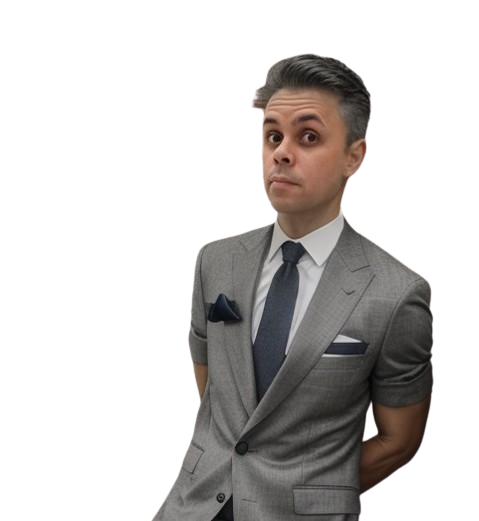
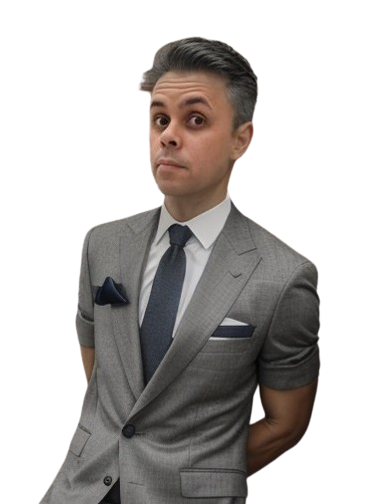
Ajustando responsividade e img

diff --git a/css/style.css b/css/style.css
@@ -101,6 +101,8 @@ section {
    position: relative;
    height: 95vh;
    width: 100%;
+   padding-bottom: 2rem;
+   margin-bottom: 6rem;
    display: grid;
    grid-template-columns: repeat(2, 1fr);
    align-items: center;
@@ -179,10 +181,12 @@ section {
     text-shadow:  3px 3px 20px #ffff00, -2px 1px 30px #ffff00;
 }
 .home-img img {
-    width: 95%;
-    height: auto;
-    padding-top: 1rem;
-    border-radius: 50%;
+    width: 91%;
+    height: 95%;
+    padding-top: -4rem;
+    padding-bottom: 0;
+    margin-bottom: 4rem;
+    /* border-radius: 50%; */
 }
 /* Fim Section Home */
 
@@ -190,7 +194,7 @@ section {
 header.sticky {
     background: var(--bg-color);
     box-shadow: 0 .1rem 1rem rgba(0, 0, 0, .2);
-    padding: 16px 16%;
+    padding: 18px 16%;
 }
 
 /* Inicio Section About */
@@ -199,6 +203,7 @@ header.sticky {
     display: grid;
     grid-template-columns: repeat(2, 1fr);
     align-items: center;
+    margin-top: 6rem;
     gap: 1;
 }
 .about-img img {
